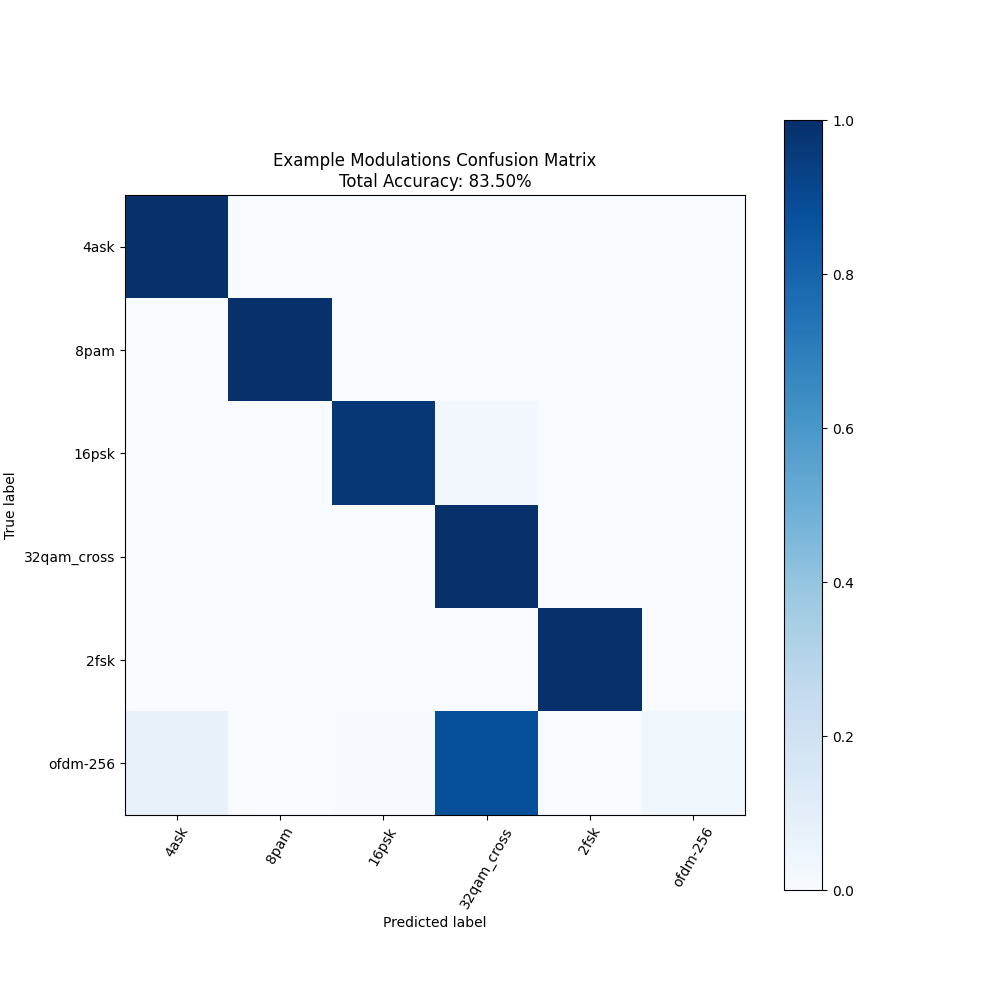
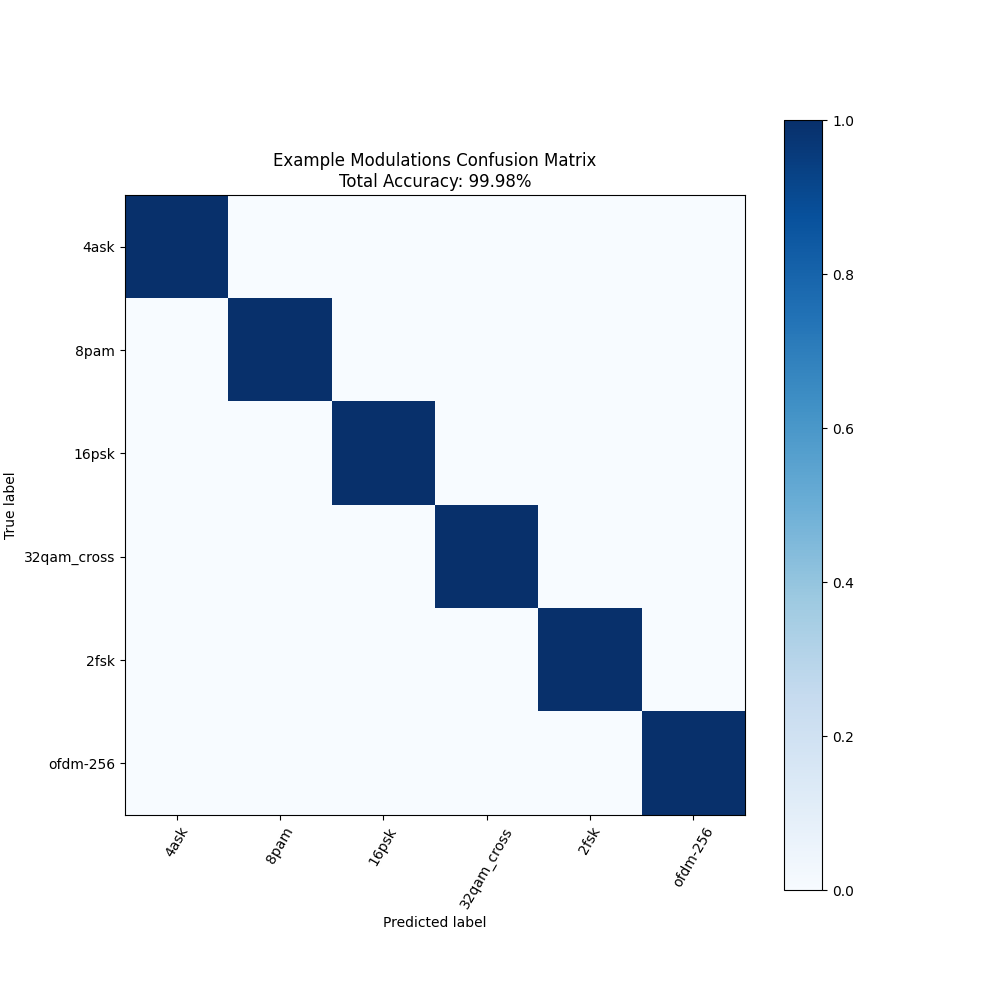
Created the best HAE architechure

Changed region(s): [[0.434, 0.713, 0.558, 0.837], [0.62, 0.713, 0.744, 0.837], [0.465, 0.155, 0.527, 0.186]]

diff --git a/.ipynb_checkpoints/iterator-checkpoint.py b/.ipynb_checkpoints/iterator-checkpoint.py
@@ -3,6 +3,7 @@ import time
 
 argument_sets = []
 
+'''
 argument_sets.append("--iq_samples 1024 --samples_per_class 8000 --batch_size 64 --Hae_epochs 10 --Hqa_epochs 20 --classifier_epochs 10 --layers 5 --input_feature_dim 2 --codebook_slots 64 --codeword_dim 128 --codebook_init normal --batch_norm 1 --reset_choice 1 --num_res_blocks 1 --cos_reset 1 --compress 2 --hae_lr 0.0004 --hqa_lr 0.0004 --hae_Cos_coeff 0.1 --hqa_Cos_coeff 0.1 --KL_coeff 0.1 --CL_coeff 0.005 --visual_dir ./codebooks/ --trainbool True")
 argument_sets.append("--iq_samples 1024 --samples_per_class 8000 --batch_size 64 --Hae_epochs 10 --Hqa_epochs 20 --classifier_epochs 10 --layers 5 --input_feature_dim 2 --codebook_slots 64 --codeword_dim 128 --codebook_init normal --batch_norm 1 --reset_choice 1 --num_res_blocks 1 --cos_reset 1 --compress 2 --hae_lr 0.0004 --hqa_lr 0.0004 --hae_Cos_coeff 0.01 --hqa_Cos_coeff 0.01 --KL_coeff 0.1 --CL_coeff 0.005 --visual_dir ./codebooks/ --trainbool True")
 argument_sets.append("--iq_samples 1024 --samples_per_class 8000 --batch_size 64 --Hae_epochs 10 --Hqa_epochs 20 --classifier_epochs 10 --layers 5 --input_feature_dim 2 --codebook_slots 64 --codeword_dim 128 --codebook_init normal --batch_norm 1 --reset_choice 1 --num_res_blocks 1 --cos_reset 1 --compress 2 --hae_lr 0.0004 --hqa_lr 0.0004 --hae_Cos_coeff 0.5 --hqa_Cos_coeff 0.5 --KL_coeff 0.1 --CL_coeff 0.005 --visual_dir ./codebooks/ --trainbool True")
@@ -10,7 +11,8 @@ argument_sets.append("--iq_samples 1024 --samples_per_class 8000 --batch_size 64
 argument_sets.append("--iq_samples 1024 --samples_per_class 8000 --batch_size 64 --Hae_epochs 10 --Hqa_epochs 20 --classifier_epochs 10 --layers 5 --input_feature_dim 2 --codebook_slots 64 --codeword_dim 128 --codebook_init normal --batch_norm 1 --reset_choice 1 --num_res_blocks 1 --cos_reset 1 --compress 2 --hae_lr 0.0004 --hqa_lr 0.0004 --hae_Cos_coeff 0.001 --hqa_Cos_coeff 0.001 --KL_coeff 0.1 --CL_coeff 0.005 --visual_dir ./codebooks/ --trainbool True")
 argument_sets.append("--iq_samples 1024 --samples_per_class 8000 --batch_size 64 --Hae_epochs 10 --Hqa_epochs 20 --classifier_epochs 10 --layers 5 --input_feature_dim 2 --codebook_slots 64 --codeword_dim 128 --codebook_init normal --batch_norm 1 --reset_choice 1 --num_res_blocks 1 --cos_reset 1 --compress 2 --hae_lr 0.0004 --hqa_lr 0.0004 --hae_Cos_coeff 0.005 --hqa_Cos_coeff 0.005 --KL_coeff 0.1 --CL_coeff 0.005 --visual_dir ./codebooks/ --trainbool True")
 argument_sets.append("--iq_samples 1024 --samples_per_class 8000 --batch_size 64 --Hae_epochs 10 --Hqa_epochs 20 --classifier_epochs 10 --layers 5 --input_feature_dim 2 --codebook_slots 64 --codeword_dim 128 --codebook_init normal --batch_norm 1 --reset_choice 1 --num_res_blocks 1 --cos_reset 1 --compress 2 --hae_lr 0.0004 --hqa_lr 0.0004 --hae_Cos_coeff 0 --hqa_Cos_coeff 0 --KL_coeff 0.1 --CL_coeff 0.005 --visual_dir ./codebooks/ --trainbool True")
-
+'''
+argument_sets.append("--iq_samples 1024 --samples_per_class 8000 --batch_size 64 --Hae_epochs 10 --Hqa_epochs 20 --classifier_epochs 10 --layers 5 --input_feature_dim 2 --codebook_slots 64 --codeword_dim 64 --codebook_init normal --batch_norm 1 --reset_choice 1 --num_res_blocks 0 --cos_reset 0 --compress 2 --hae_lr 0.0004 --hqa_lr 0.0004 --hae_Cos_coeff 0.7 --hqa_Cos_coeff 0.7 --KL_coeff 0.1 --CL_coeff 0.005 --visual_dir ./codebooks/ --trainbool True")
 for arguments in argument_sets: 
     command1 = f"python run_pipeline.py {arguments}"
     subprocess.run(command1, shell=True)

diff --git a/iterator.py b/iterator.py
@@ -3,6 +3,7 @@ import time
 
 argument_sets = []
 
+'''
 argument_sets.append("--iq_samples 1024 --samples_per_class 8000 --batch_size 64 --Hae_epochs 10 --Hqa_epochs 20 --classifier_epochs 10 --layers 5 --input_feature_dim 2 --codebook_slots 64 --codeword_dim 128 --codebook_init normal --batch_norm 1 --reset_choice 1 --num_res_blocks 1 --cos_reset 1 --compress 2 --hae_lr 0.0004 --hqa_lr 0.0004 --hae_Cos_coeff 0.1 --hqa_Cos_coeff 0.1 --KL_coeff 0.1 --CL_coeff 0.005 --visual_dir ./codebooks/ --trainbool True")
 argument_sets.append("--iq_samples 1024 --samples_per_class 8000 --batch_size 64 --Hae_epochs 10 --Hqa_epochs 20 --classifier_epochs 10 --layers 5 --input_feature_dim 2 --codebook_slots 64 --codeword_dim 128 --codebook_init normal --batch_norm 1 --reset_choice 1 --num_res_blocks 1 --cos_reset 1 --compress 2 --hae_lr 0.0004 --hqa_lr 0.0004 --hae_Cos_coeff 0.01 --hqa_Cos_coeff 0.01 --KL_coeff 0.1 --CL_coeff 0.005 --visual_dir ./codebooks/ --trainbool True")
 argument_sets.append("--iq_samples 1024 --samples_per_class 8000 --batch_size 64 --Hae_epochs 10 --Hqa_epochs 20 --classifier_epochs 10 --layers 5 --input_feature_dim 2 --codebook_slots 64 --codeword_dim 128 --codebook_init normal --batch_norm 1 --reset_choice 1 --num_res_blocks 1 --cos_reset 1 --compress 2 --hae_lr 0.0004 --hqa_lr 0.0004 --hae_Cos_coeff 0.5 --hqa_Cos_coeff 0.5 --KL_coeff 0.1 --CL_coeff 0.005 --visual_dir ./codebooks/ --trainbool True")
@@ -10,7 +11,8 @@ argument_sets.append("--iq_samples 1024 --samples_per_class 8000 --batch_size 64
 argument_sets.append("--iq_samples 1024 --samples_per_class 8000 --batch_size 64 --Hae_epochs 10 --Hqa_epochs 20 --classifier_epochs 10 --layers 5 --input_feature_dim 2 --codebook_slots 64 --codeword_dim 128 --codebook_init normal --batch_norm 1 --reset_choice 1 --num_res_blocks 1 --cos_reset 1 --compress 2 --hae_lr 0.0004 --hqa_lr 0.0004 --hae_Cos_coeff 0.001 --hqa_Cos_coeff 0.001 --KL_coeff 0.1 --CL_coeff 0.005 --visual_dir ./codebooks/ --trainbool True")
 argument_sets.append("--iq_samples 1024 --samples_per_class 8000 --batch_size 64 --Hae_epochs 10 --Hqa_epochs 20 --classifier_epochs 10 --layers 5 --input_feature_dim 2 --codebook_slots 64 --codeword_dim 128 --codebook_init normal --batch_norm 1 --reset_choice 1 --num_res_blocks 1 --cos_reset 1 --compress 2 --hae_lr 0.0004 --hqa_lr 0.0004 --hae_Cos_coeff 0.005 --hqa_Cos_coeff 0.005 --KL_coeff 0.1 --CL_coeff 0.005 --visual_dir ./codebooks/ --trainbool True")
 argument_sets.append("--iq_samples 1024 --samples_per_class 8000 --batch_size 64 --Hae_epochs 10 --Hqa_epochs 20 --classifier_epochs 10 --layers 5 --input_feature_dim 2 --codebook_slots 64 --codeword_dim 128 --codebook_init normal --batch_norm 1 --reset_choice 1 --num_res_blocks 1 --cos_reset 1 --compress 2 --hae_lr 0.0004 --hqa_lr 0.0004 --hae_Cos_coeff 0 --hqa_Cos_coeff 0 --KL_coeff 0.1 --CL_coeff 0.005 --visual_dir ./codebooks/ --trainbool True")
-
+'''
+argument_sets.append("--iq_samples 1024 --samples_per_class 8000 --batch_size 64 --Hae_epochs 10 --Hqa_epochs 20 --classifier_epochs 10 --layers 5 --input_feature_dim 2 --codebook_slots 64 --codeword_dim 64 --codebook_init normal --batch_norm 1 --reset_choice 1 --num_res_blocks 0 --cos_reset 0 --compress 2 --hae_lr 0.0004 --hqa_lr 0.0004 --hae_Cos_coeff 0.7 --hqa_Cos_coeff 0.7 --KL_coeff 0.1 --CL_coeff 0.005 --visual_dir ./codebooks/ --trainbool True")
 for arguments in argument_sets: 
     command1 = f"python run_pipeline.py {arguments}"
     subprocess.run(command1, shell=True)

diff --git a/steps/.ipynb_checkpoints/train_classifier-checkpoint.py b/steps/.ipynb_checkpoints/train_classifier-checkpoint.py
@@ -1,0 +1,51 @@
+import logging
+from zenml import step
+from torch.utils.data import DataLoader
+from src.efficientNet_classifer import *
+import torch
+from torchsig.models.iq_models.efficientnet.efficientnet import efficientnet_b4
+from src.utils import *
+from zenml.client import Client
+import lightning.pytorch as pl
+from zenml.integrations.mlflow.flavors.mlflow_experiment_tracker_flavor import MLFlowExperimentTrackerSettings
+
+mlflow_settings = MLFlowExperimentTrackerSettings(
+    nested=True,
+    tags={"Cos Loss": "0.7"}
+)
+
+experiment_tracker = Client().active_stack.experiment_tracker
+
+
+
+@step(enable_cache=True,experiment_tracker = experiment_tracker.name,
+      settings={
+        "experiment_tracker.mlflow": mlflow_settings
+    })
+def train_classifier(dl_train: DataLoader,
+                dl_val: DataLoader,
+                epochs: int,
+                train_bool: bool,
+                eff_net_PATH: str,
+                classes: list) -> ExampleNetwork:
+    
+    model = efficientnet_b4(
+        pretrained=False,
+        num_classes=len(classes)
+    )
+    example_model = ExampleNetwork(model, dl_train, dl_val)
+    example_model = example_model.float().to(device)    
+    trainer = Trainer(
+        max_epochs=epochs, 
+        devices=1, 
+        accelerator="gpu"
+    )
+    if train_bool:
+        trainer.fit(example_model,dl_train,dl_val)
+        torch.save(example_model.state_dict(),eff_net_PATH)
+        print("trained the model")
+        return example_model
+    else:
+        example_model.load_state_dict(torch.load(eff_net_PATH))
+        print("loaded from checkpoint")
+        return example_model

diff --git a/src/.ipynb_checkpoints/HAE-checkpoint.py b/src/.ipynb_checkpoints/HAE-checkpoint.py
@@ -327,6 +327,10 @@ class HAE(pl.LightningModule):
         z_e = self.encoder(z_e_lower)
         z_e_lower_tilde = self.decoder(z_e)
         return z_e_lower_tilde, z_e_lower, z_e
+
+    def on_train_start(self):
+        cosList = [0.1,0.05,0.01,0.005,0.0001]
+        self.Cos_coeff = cosList[self.layer]
         
     def on_fit_end(self):
         mlflow.end_run()

diff --git a/src/HAE.py b/src/HAE.py
@@ -327,6 +327,10 @@ class HAE(pl.LightningModule):
         z_e = self.encoder(z_e_lower)
         z_e_lower_tilde = self.decoder(z_e)
         return z_e_lower_tilde, z_e_lower, z_e
+
+    def on_train_start(self):
+        cosList = [0.1,0.05,0.01,0.005,0.0001]
+        self.Cos_coeff = cosList[self.layer]
         
     def on_fit_end(self):
         mlflow.end_run()

diff --git a/steps/.ipynb_checkpoints/train_model-checkpoint.py b/steps/.ipynb_checkpoints/train_model-checkpoint.py
@@ -17,7 +17,7 @@ mlflow_settings = MLFlowExperimentTrackerSettings(
 experiment_tracker = Client().active_stack.experiment_tracker
 
 
-@step(enable_cache=False,experiment_tracker = experiment_tracker.name,
+@step(enable_cache=True,experiment_tracker = experiment_tracker.name,
       settings={
         "experiment_tracker.mlflow": mlflow_settings
     })

diff --git a/steps/train_model.py b/steps/train_model.py
@@ -17,7 +17,7 @@ mlflow_settings = MLFlowExperimentTrackerSettings(
 experiment_tracker = Client().active_stack.experiment_tracker
 
 
-@step(enable_cache=False,experiment_tracker = experiment_tracker.name,
+@step(enable_cache=True,experiment_tracker = experiment_tracker.name,
       settings={
         "experiment_tracker.mlflow": mlflow_settings
     })
